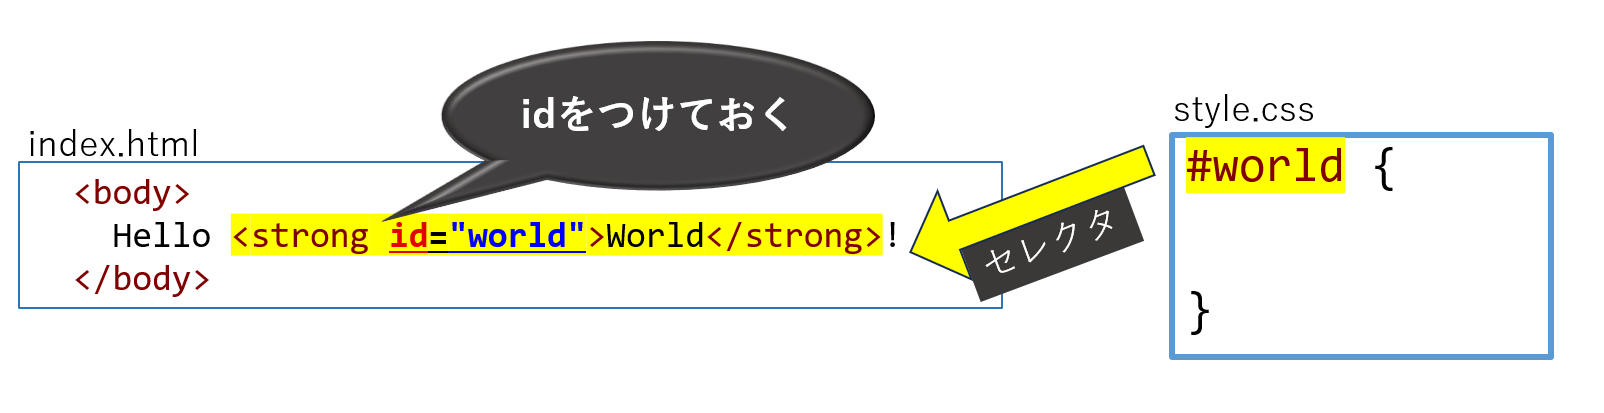
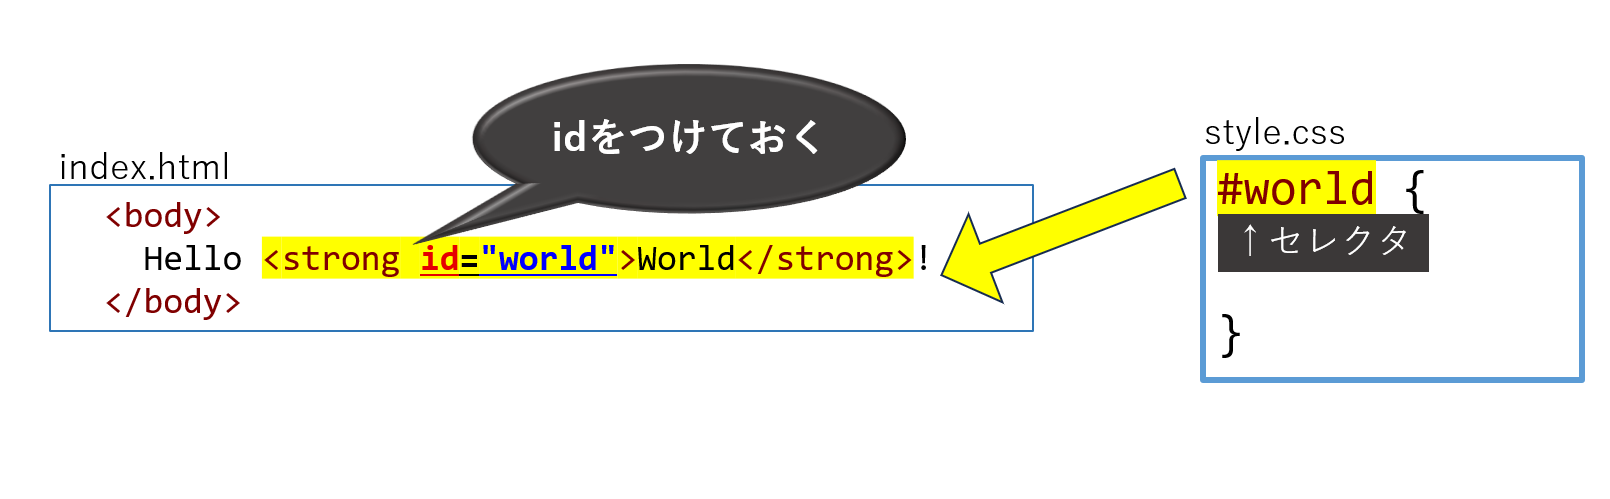
上の10個のコメントに対応

Changed region(s): [[0.0, 0.0872, 0.9975, 0.8717]]

diff --git a/docs/1-trial-session/12-css/index.md b/docs/1-trial-session/12-css/index.md
@@ -12,14 +12,18 @@ import ViewSource from "@site/src/components/ViewSource";
 
 
 CSS の書き方を学び、`World`の文字を赤くしてみましょう。
+
 ![Hello World!](./red-hello-world.png)
+
 ## <Term type="css">CSS</Term> の書き方
 
 ### <Term type="css">CSS</Term> ファイルを作成する
 
 CSS ファイルの拡張子は通常 `.css` です。今回は `index.html` と併せて `style.css` を作成しました。
+
 ![CSSを書き始める](./begin-css.png)
-次の例では、<code>Hello World</code> の <code>World</code> の部分を赤色にしています。
+
+次の例では、`Hello World` の `World` の部分を赤色にしています。
 ```html title="index.html"
 <!doctype html>
 <html lang="ja">
@@ -41,22 +45,22 @@ CSS ファイルの拡張子は通常 `.css` です。今回は `index.html` と
 <ViewSource url={import.meta.url} path="_samples/red-hello-world" />
 
 
-### <code>link</code> 要素
+### `link` 要素
 
 ```html title="index.html"
 <link rel="stylesheet" href="style.css" />
 ```
 
-まず注目すべきは `link` 要素です。HTML で、`link` 要素の `href` 属性を指定することにより、外部の CSS ファイルを読み込ませることができます。
+まず注目すべきは `link` 要素です。HTML で、`link` 要素を用いることにより、外部の CSS ファイルを読み込ませることができます。
 
 ### セレクタとID
 
 
-外部のファイルに記述された CSS では、その CSS を適用する要素を明示的に指定する必要があります。準備として、まず CSS を適用したい HTML 要素にIDを付けます。(上の例では、 <code>index.html</code> の 9行目) 
+CSS を記述する際には、まずスタイルを適用する対象となる HTML 要素を指定する必要があります。このために用いることができるのが、HTML 要素の `id` 属性です。(上の例では、 <code>index.html</code> の 9行目) 
 
 ![セレクタ](selector.png)
 
-そして、CSS 側に書くのが **セレクタ**です。上の例では 、 <code>style.css</code> 1行目の`#world` がセレクタで、「`id` 属性が `world` である要素」を示します。
+そして、CSS 側に書くのが **セレクタ**です。上の例では、 <code>style.css</code> 1行目の`#world` がセレクタで、「`id` 属性が `world` である要素」を示します。
 
 `id` 属性は、全ての HTML 要素に対して開発者が自由に設定できますが、ひとつの HTML 内に同じ `id` 属性を持つ要素が複数存在してはならない、というルールがあります。
 
@@ -103,12 +107,13 @@ CSS の<code>{}</code>内に、<Term strong type="cssProperty">プロパティ</
 
 <ViewSource url={import.meta.url} path="_samples/first-css" />
 
-このプログラムを実行すると分かるとおり、<Term type="styleAttribute">style 属性</Term>を指定した<Term type="element">要素</Term>内のテキストが赤色で表示されます。
+このプログラムを実行すると、<Term type="styleAttribute">style 属性</Term>を指定した<Term type="element">要素</Term>内のテキストが赤色で表示されます。
 
-しかし、 <code>style</code> 属性で HTML と CSS をごちゃ混ぜに書くよりも、 HTML は「構造」、 CSS は「スタイル」と役割をはっきり分離させておけば、コードの可読性が上がったり、後から修正するのも簡単です。このため、通常 CSS ファイルは HTML ファイルとは別に用意されます。
+しかし、 <code>style</code> 属性を用いて HTML と CSS を1つのファイルに混合するよりも、「構造」のファイル (HTML) 、「スタイル」のファイル (CSS) と役割をはっきり分離させたほうが、コードの可読性が上がり、後から修正するのも簡単です。このため、通常 CSS ファイルは HTML ファイルとは別に用意されます。
 :::
 
 ## 複数のプロパティ
+
 ```css title="style.css"
 #element {
   color: red;
@@ -158,7 +163,9 @@ CSS の<Term type="cssProperty">プロパティ</Term>には `color` (文字色)
 ## 初級課題2
 
 下のような、文字色が黄色、背景色が好きな色 (この例では黒) の `Hello CSS!` をブラウザで表示してみましょう。
+
 ![Hello CSS!](yellow-hello-css.png)
+
 使用するプロパティは `color`  `background-color` です。
 
 <Answer>
